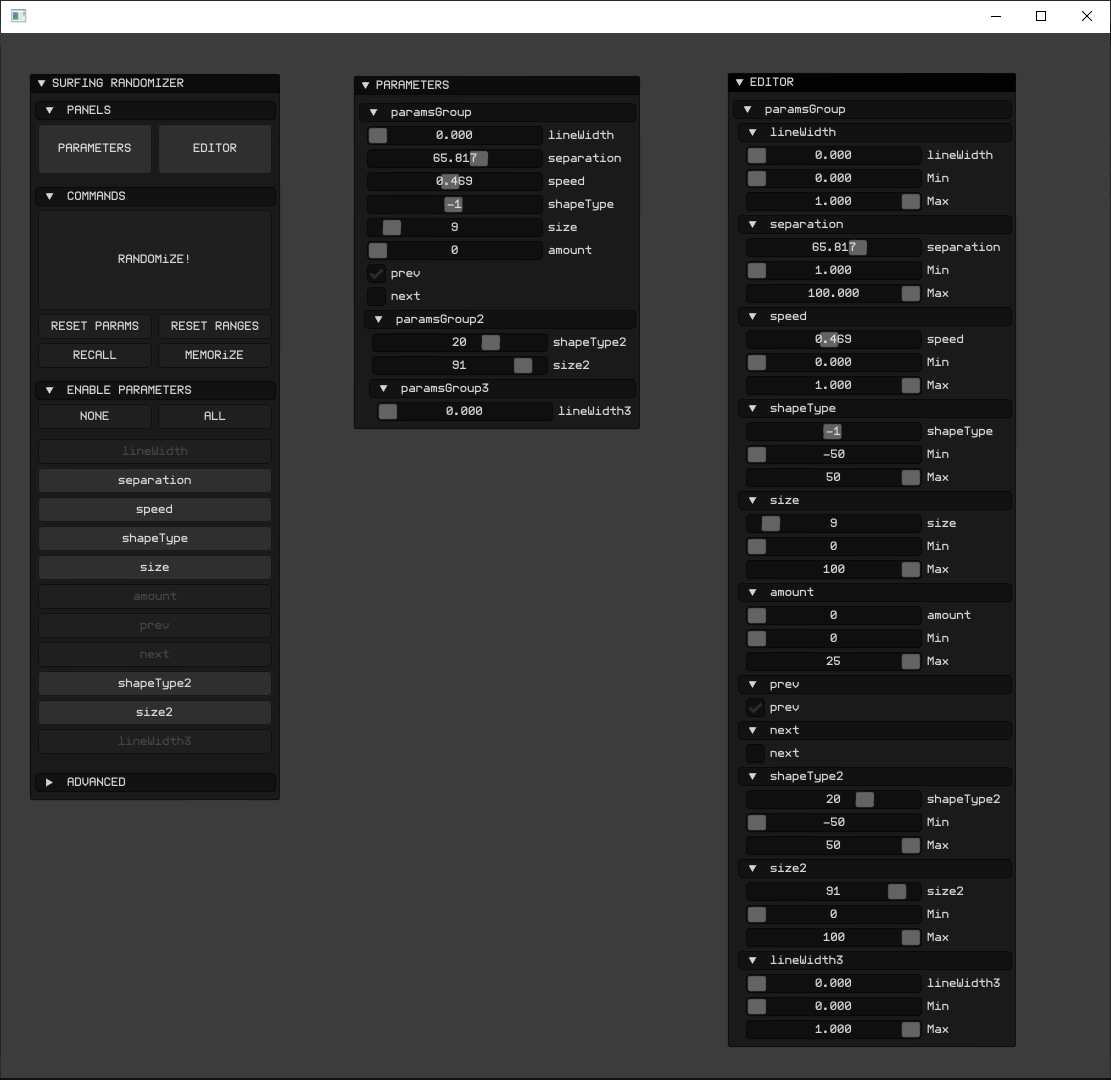
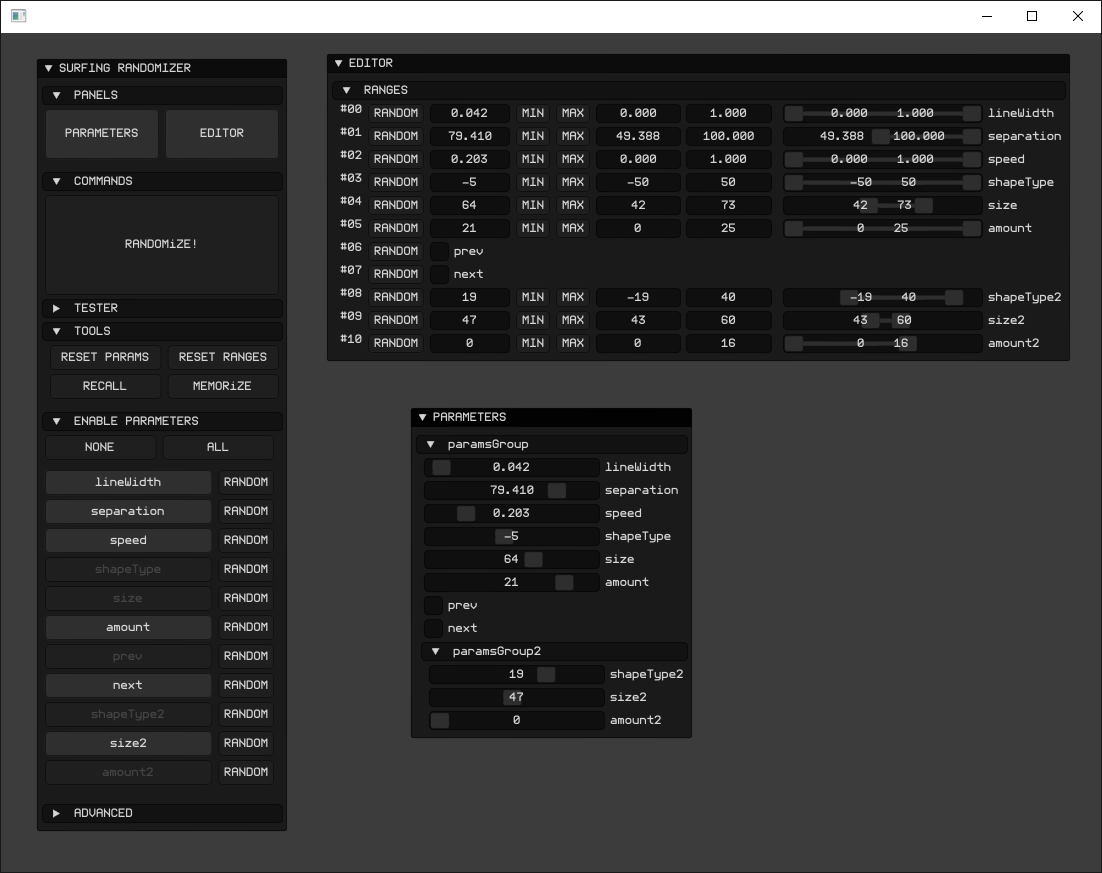
+

diff --git a/src/ofxSurfingRandomizer.cpp b/src/ofxSurfingRandomizer.cpp
@@ -20,6 +20,8 @@ ofxSurfingRandomizer::ofxSurfingRandomizer() {
 	params_AppState.add(bParams);
 	params_AppState.add(bEditor);
 	params_AppState.add(bControls);
+	params_AppState.add(bPlay.set("PLAY", false));
+	params_AppState.add(playSpeed.set("Speed", 0.5, 0, 1));
 	ofxSurfingHelpers::loadGroup(params_AppState, path_AppState);
 }
 
@@ -43,6 +45,7 @@ void ofxSurfingRandomizer::setup(ofParameterGroup& group) {
 	setupEditor(group);//build the editor for all the params
 
 	// gui
+	//guiManager.setImGuiAutodraw(false);
 	guiManager.setup();//initiate ImGui
 	//guiManager.setUseAdvancedSubPanel(true);
 }
@@ -54,6 +57,20 @@ void ofxSurfingRandomizer::setup(ofParameterGroup& group) {
 
 //--------------------------------------------------------------
 void ofxSurfingRandomizer::draw(ofEventArgs & args) {
+	// tester
+	// play timed randoms
+	static const int _secs = 2;
+	if (bPlay) {
+		//int max = 60 * _secs;
+		int max = ofMap(playSpeed, 0, 1, 60, 5) * _secs;
+		tf = ofGetFrameNum() % max;
+		tn = ofMap(tf, 0, max, 0, 1);
+		if (tf == 0)
+		{
+			doRandomize();
+		}
+	}
+	
 	if (!bGui) return;
 
 	guiManager.begin();
@@ -143,27 +160,77 @@ void ofxSurfingRandomizer::draw(ofEventArgs & args) {
 						doRandomize();
 					}
 
-					if (ImGui::Button("RESET PARAMS", ImVec2(_w50, _h / 2)))
+					//-
+
+					// TESTER
+
+					bOpen = false;
+					ImGuiColorEditFlags _flagw = (bOpen ? ImGuiTreeNodeFlags_DefaultOpen : ImGuiTreeNodeFlags_None);
+					_flagw |= ImGuiTreeNodeFlags_Framed;
+					if (ImGui::TreeNodeEx("TESTER", _flagw))
+					//if (ImGui::CollapsingHeader("TESTER"))
 					{
-						doResetParams();
-					}
-					ImGui::SameLine();
-					if (ImGui::Button("RESET RANGES", ImVec2(_w50, _h / 2)))
-					{
-						doResetRanges();
+						ofxSurfingHelpers::refreshImGui_WidgetsSizes(_spcx, _spcy, _w100, _h100, _w99, _w50, _w33, _w25, _h);
+					
+						//TODO:
+						//blink by timer
+						//tn
+						bool b = bPlay;
+						float a;
+						if (b) a = 1 - tn;
+						//if (b) a = ofxSurfingHelpers::getFadeBlink();
+						else a = 1.0f;
+						if (b) ImGui::PushStyleColor(ImGuiCol_Border, (ImVec4)ImColor::HSV(0.5f, 0.0f, 1.0f, a));
+						ofxSurfingHelpers::AddBigToggle(bPlay, _w100, _h, false);
+						if (b) ImGui::PopStyleColor();
+
+						//if (ImGui::Button("RANDOMIZE", ImVec2(_w100, _h / 2))) {
+						//	doRandomize();
+						//}
+						if (bPlay) {
+							//ImGui::SliderFloat("Speed", &playSpeed, 0, 1);
+							ofxImGui::AddParameter(playSpeed);
+							//ImGui::ProgressBar(tn);
+						}
+						ImGui::Dummy(ImVec2(0.0f, 2.0f));
+						ImGui::TreePop();
 					}
 
-					//state memory
-					if (ImGui::Button("RECALL", ImVec2(_w50, _h / 2)))
-						//if (ImGui::Button("LOAD STATE", ImVec2(_w50, _h/2)))
+					//-
+
+					// TOOLS
+
+					bOpen = false;
+					_flagw = (bOpen ? ImGuiTreeNodeFlags_DefaultOpen : ImGuiTreeNodeFlags_None);
+					_flagw |= ImGuiTreeNodeFlags_Framed;
+					if (ImGui::TreeNodeEx("TOOLS", _flagw)) 
+					//if (ImGui::CollapsingHeader("TOOLS"))
 					{
-						doLoadState();
-					}
-					ImGui::SameLine();
-					if (ImGui::Button("MEMORiZE", ImVec2(_w50, _h / 2)))
-						//if (ImGui::Button("SAVE STATE", ImVec2(_w50, _h/2)))
-					{
-						doSaveState();
+						ofxSurfingHelpers::refreshImGui_WidgetsSizes(_spcx, _spcy, _w100, _h100, _w99, _w50, _w33, _w25, _h);
+						
+						if (ImGui::Button("RESET PARAMS", ImVec2(_w50, _h / 2)))
+						{
+							doResetParams();
+						}
+						ImGui::SameLine();
+						if (ImGui::Button("RESET RANGES", ImVec2(_w50, _h / 2)))
+						{
+							doResetRanges();
+						}
+
+						//state memory
+						if (ImGui::Button("RECALL", ImVec2(_w50, _h / 2)))
+							//if (ImGui::Button("LOAD STATE", ImVec2(_w50, _h/2)))
+						{
+							doLoadState();
+						}
+						ImGui::SameLine();
+						if (ImGui::Button("MEMORiZE", ImVec2(_w50, _h / 2)))
+							//if (ImGui::Button("SAVE STATE", ImVec2(_w50, _h/2)))
+						{
+							doSaveState();
+						}
+						ImGui::TreePop();
 					}
 				}
 				ImGui::Dummy(ImVec2(0.0f, 5.0f));
@@ -250,7 +317,7 @@ void ofxSurfingRandomizer::draw(ofEventArgs & args) {
 
 		//-
 
-		// 3. window editor
+		// 3. WINDOW EDITOR
 
 		if (bEditor)
 		{
@@ -890,4 +957,16 @@ void ofxSurfingRandomizer::addGroup(ofParameterGroup& group) {
 	//{
 	//	params_EditorEnablers.add(pb);
 	//}
+}
+
+
+//--------------------------------------------------------------
+void ofxSurfingRandomizer::keyPressed(int key) {
+
+	//if (key == 'g') bGui = !bGui;
+
+	// randomizer
+	if (key == ' ') { doRandomize(); }
+	if (key == OF_KEY_BACKSPACE) { doResetParams(); }
+	if (key == OF_KEY_RETURN) bPlay = !bPlay;
 }

diff --git a/src/ofxSurfingRandomizer.h b/src/ofxSurfingRandomizer.h
@@ -23,6 +23,14 @@ public:
 	void setup(ofParameterGroup& group);
 	void draw(ofEventArgs & args);
 	void exit();
+	void keyPressed(int key);
+
+private:
+	//tester timers
+	ofParameter<bool> bPlay;
+	ofParameter<float> playSpeed;
+	int tf;
+	float tn;
 
 private:
 	void drawParams();
@@ -67,6 +75,8 @@ private:
 
 public:
 	ofParameter<bool> bGui;
+
+	void setImGuiAutodraw(bool b){ guiManager.setImGuiAutodraw(b); }//required to set to false when only one ImGui instance is created
 
 private:
 	//settings
